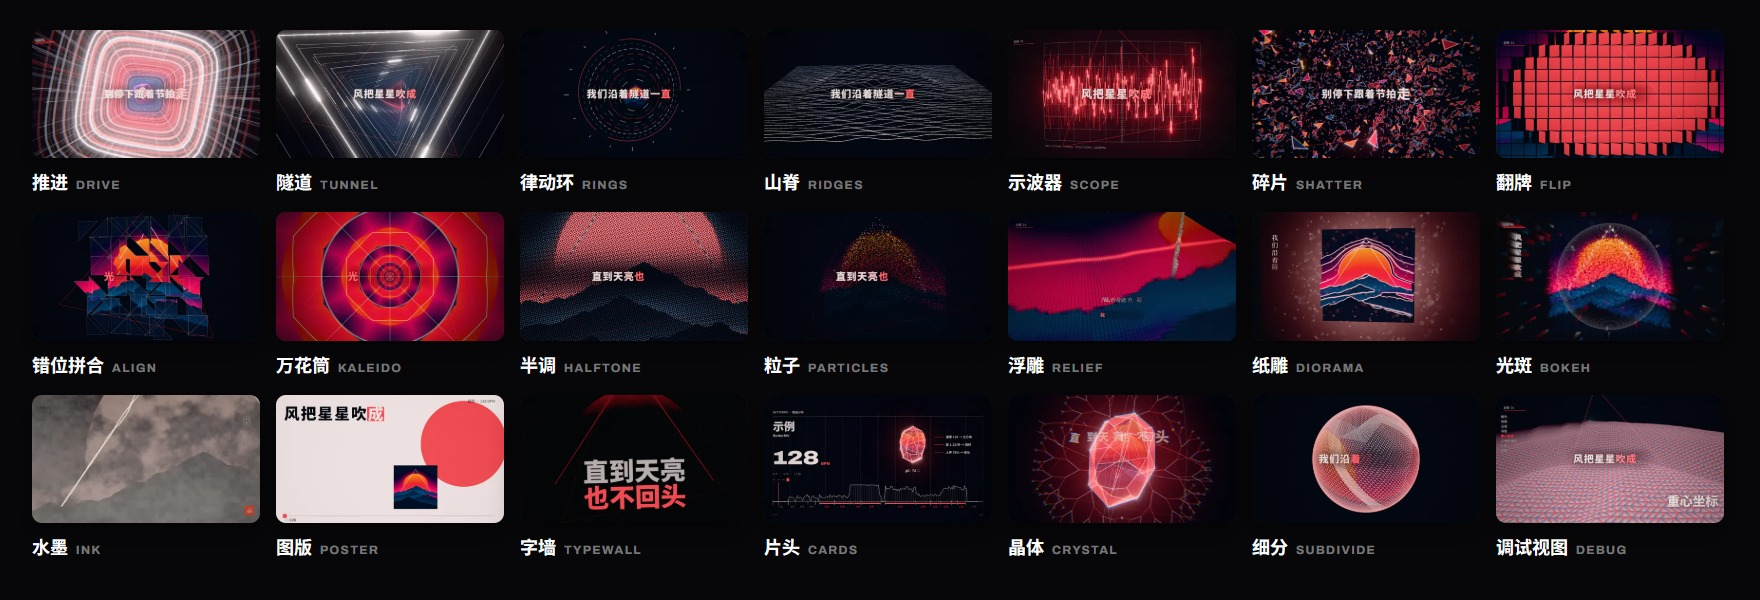
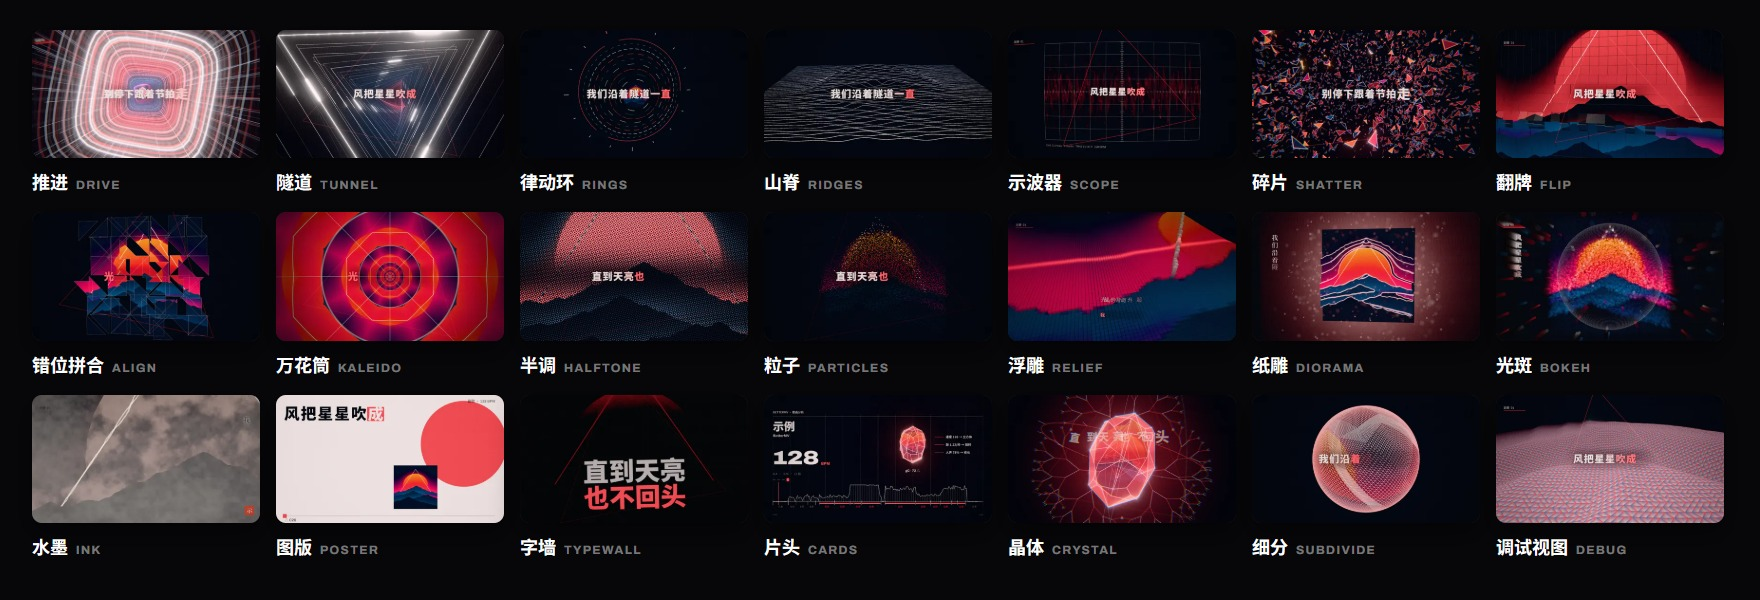
docs: 重新渲染 README 的场景图和设置页截图
- 设置页截图：标题旁的版本号，以及歌词一栏的对齐包下载按钮（开发预览页改为检查
  一次对齐包，不再停在“检查中…”）。
- 场景图：示波器、翻牌、调试视图换成重做后的示意图。

Changed region(s): [[0.8438, 0.03, 1.0, 0.27], [0.5625, 0.06, 0.7188, 0.27], [0.9375, 0.81, 0.9688, 0.84]]

diff --git a/src/dev/settings.ts b/src/dev/settings.ts
@@ -3,6 +3,10 @@
 // `plugin` is stood in for (settings kept in localStorage); the scene sketches come from public/previews/.
 import { loadConfig, Overlay, settingsView, type QueueTrack } from '../plugin/ui.ts';
 import type { PlayMode } from '../plugin/client.ts';
+import { checkPack } from '../plugin/aligner.ts';
+
+// No aligner pack here (no BetterNCM): the lyrics row offers the download, as on a fresh install.
+void checkPack();
 
 const store = 'bettermv-settings-dev';
 const saved = (): Record<string, unknown> => { try { return JSON.parse(localStorage.getItem(store) || '{}'); } catch { return {}; } };
